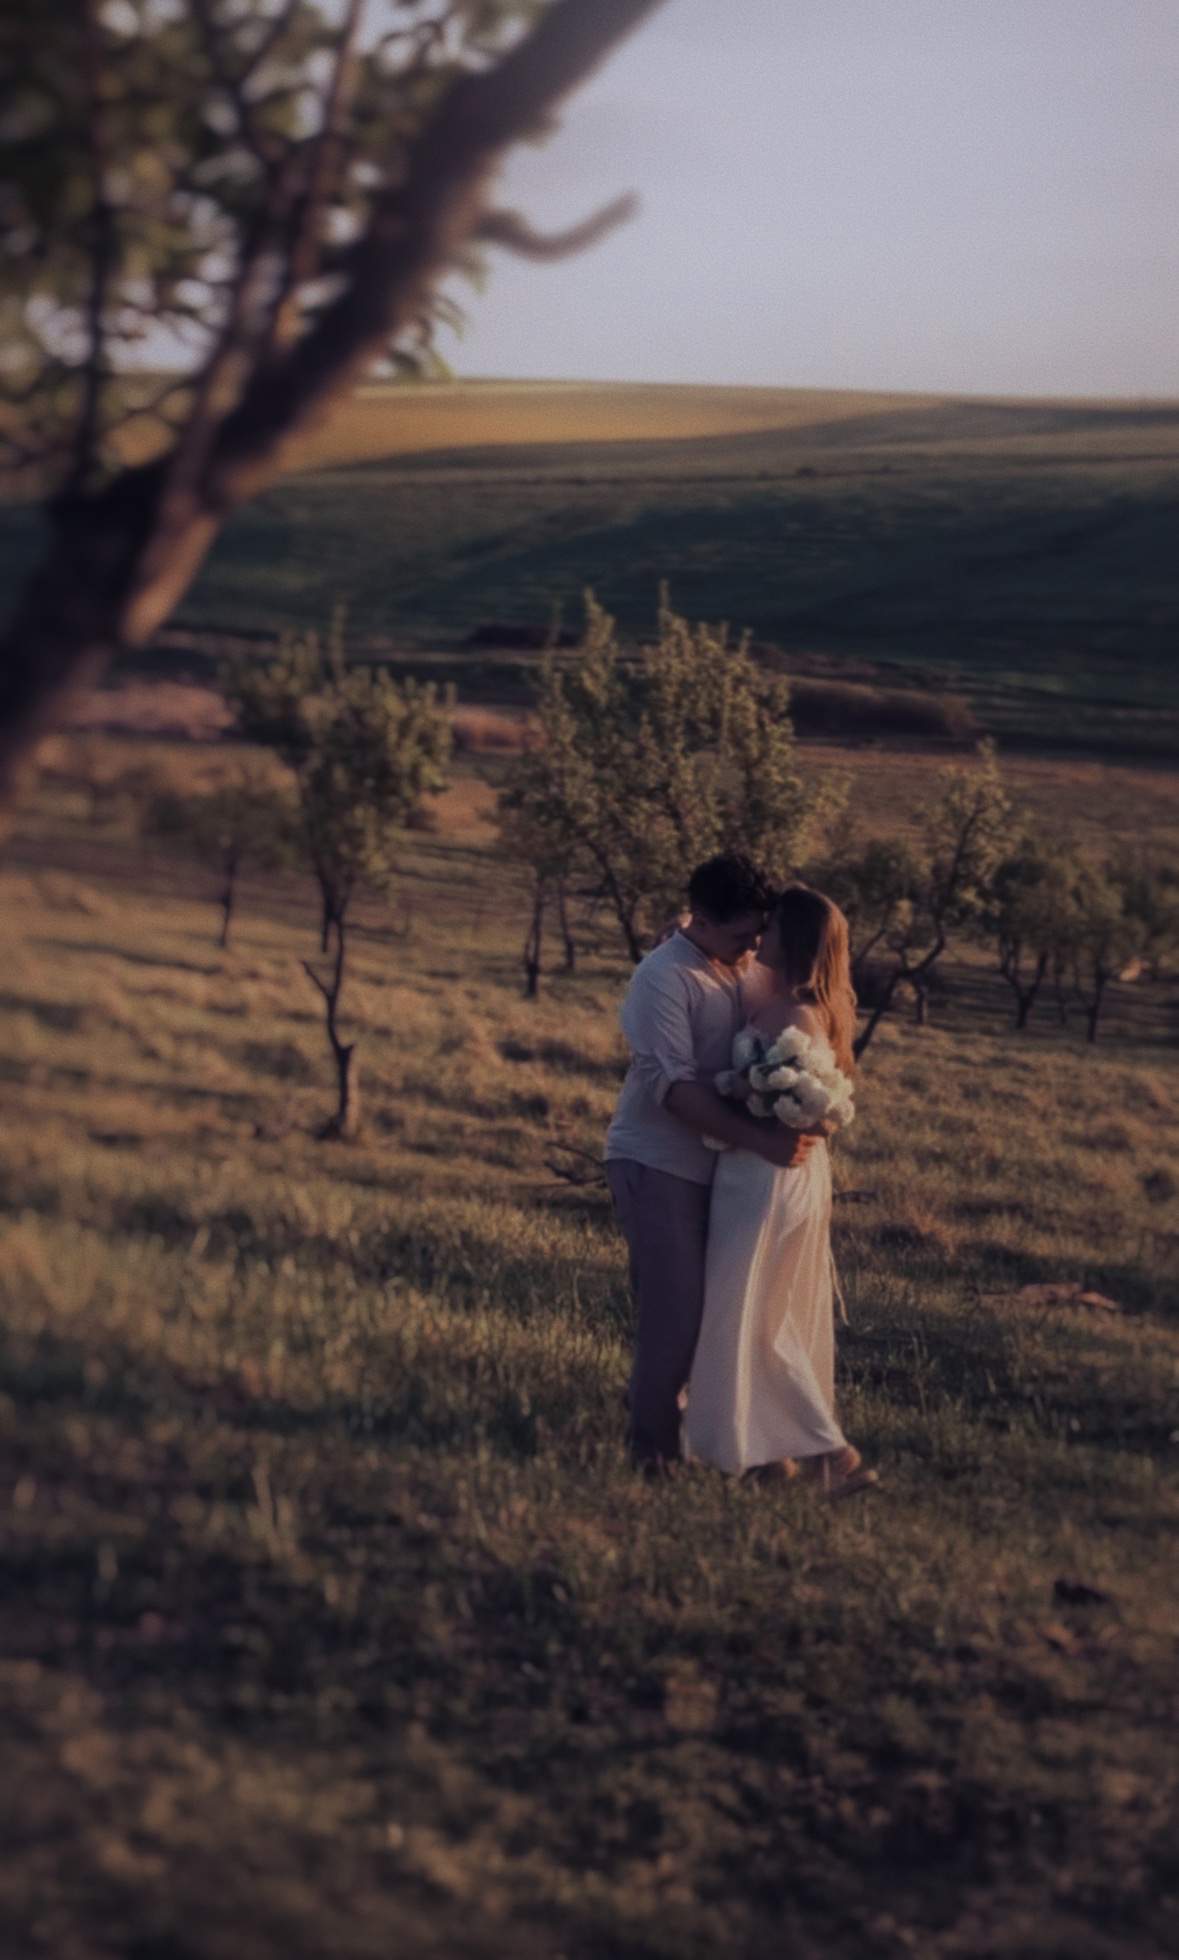
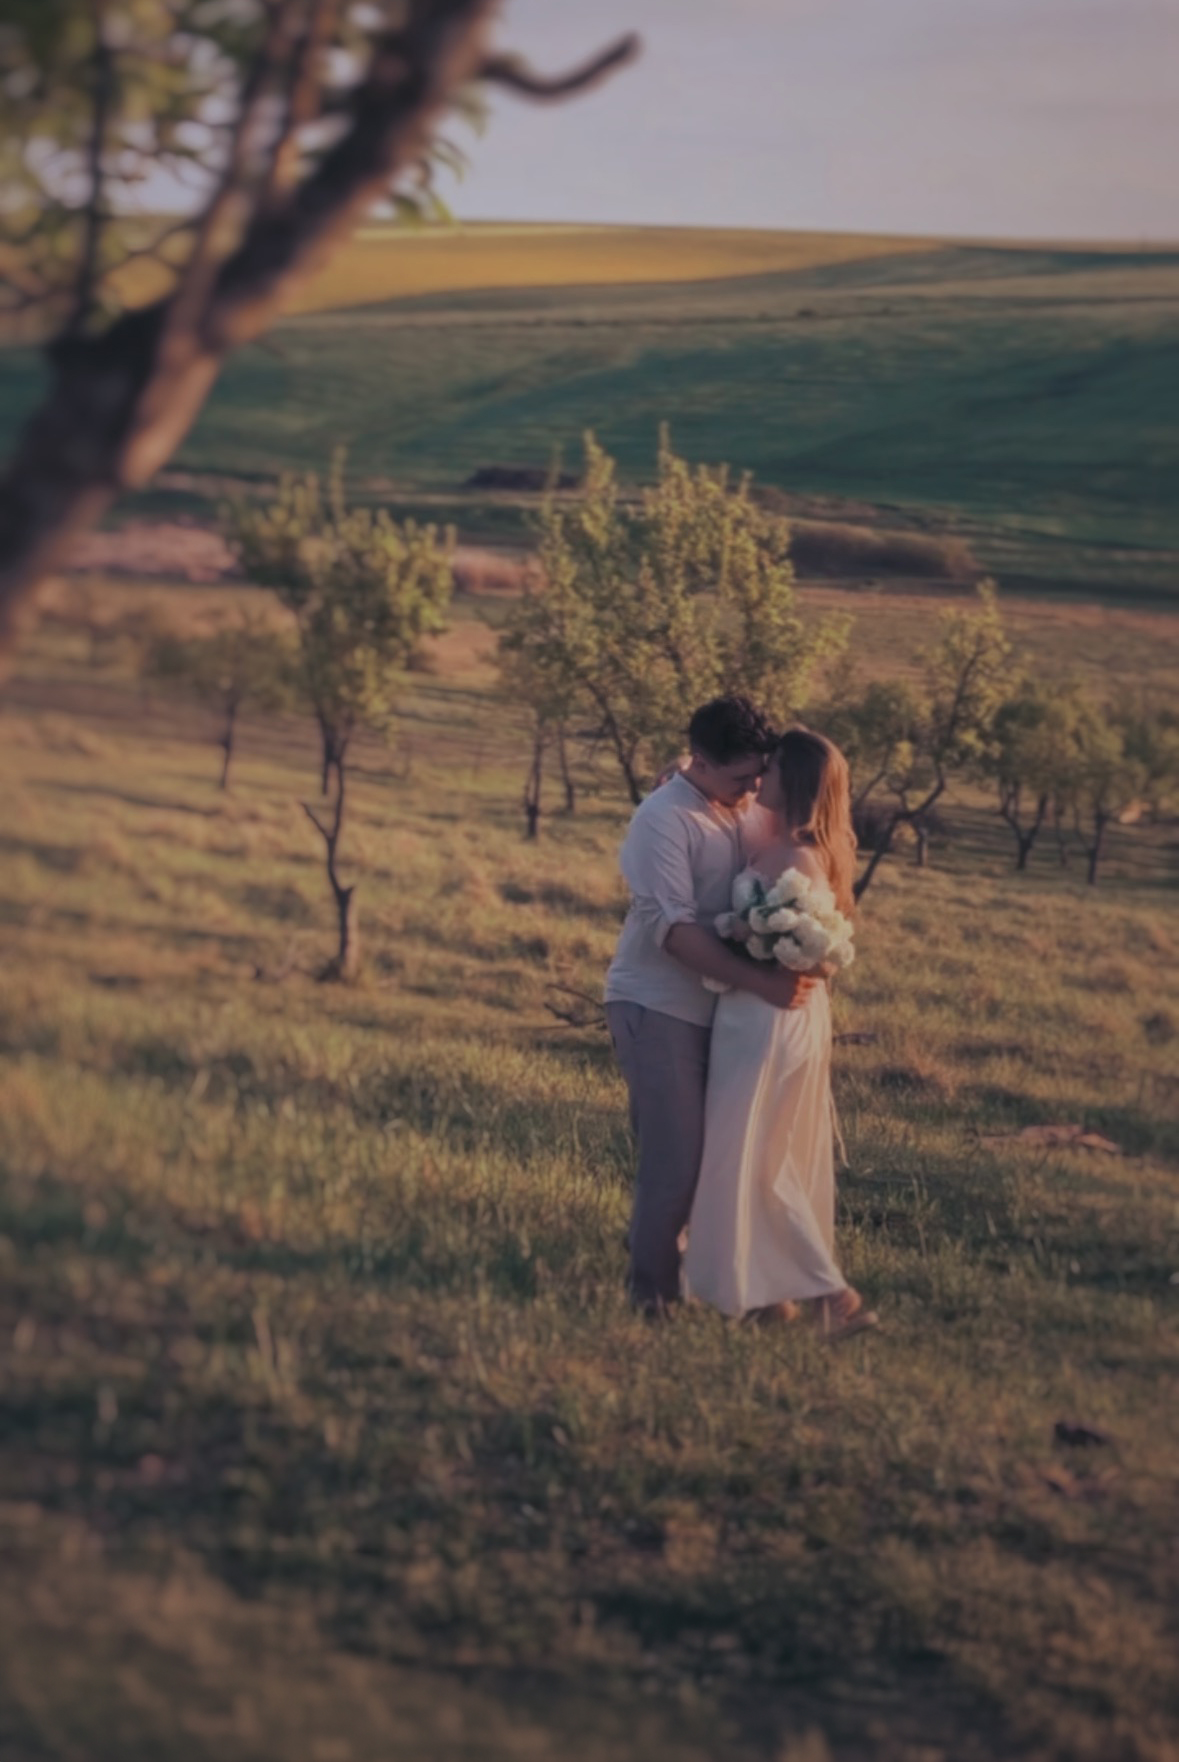
Update img_02 alt text and replace img_03

diff --git a/index.html b/index.html
@@ -198,7 +198,7 @@
     <span class="prc prc--bl" aria-hidden="true"></span>
     <span class="prc prc--br" aria-hidden="true"></span>
     <div class="photo-slot photo-slot--sm">
-      <img src="media/images/img_02.jpg" alt="">
+      <img src="media/images/img_02.jpg" alt="Nick si Georgi">
     </div>
   </div>
 
